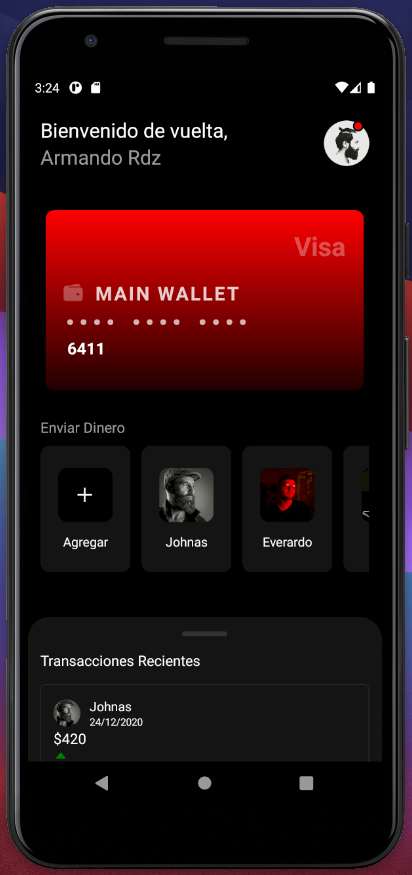
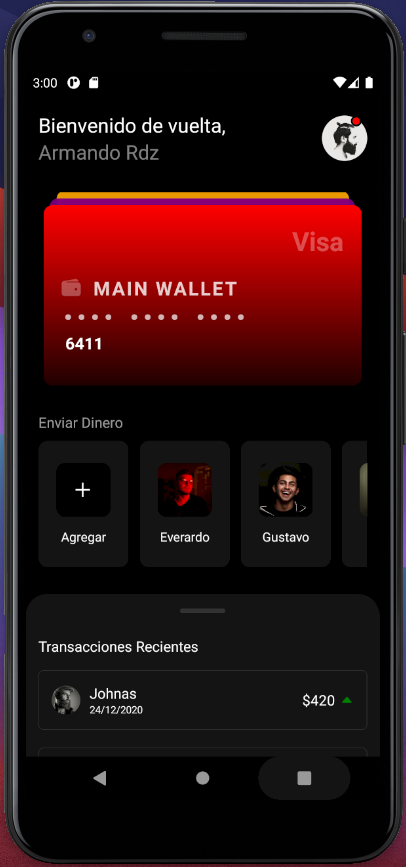
done :rocket:

diff --git a/src/components/TransactionsPanel.js b/src/components/TransactionsPanel.js
@@ -44,16 +44,17 @@ export default () => {
 
           <View style={styles.panelListContainer}>
             <FlatList
+              showsVerticalScrollIndicator={false}
               data={users}
               keyExtractor={item => item.key}
               renderItem={({ item }) => (
                 <View style={styles.panelItemContainer}>
-                  <View style={{ flexDirection: 'row', alignItems: 'center' }}>
+                  <View style={styles.userPanelInfoItem}>
                     <View style={{ marginRight: 10 }}>
                       <Image source={{ uri: item.userImage }} style={styles.panelItemImg} />
                     </View>
                     <View>
-                      <Text style={{ fontSize: 14, color: "#fff" }}>
+                      <Text style={{ fontSize: 16, color: "#fff" }}>
                         {item.userName}
                       </Text>
                       <Text style={{ fontSize: 11, color: "#fff" }}>
@@ -61,8 +62,8 @@ export default () => {
                       </Text>
                     </View>
                   </View>
-                  <View>
-                      <Text style={{ fontSize: 16, color: "#fff", flex:1}}>{item.amount}</Text>
+                  <View style={styles.amountItemContainer}>
+                      <Text style={styles.amountItem}>{item.amount}</Text>
                       {item.credit ? (
                         <Icon name="ios-caret-up" size={16} color={"green"} />
                       ): (
@@ -72,6 +73,11 @@ export default () => {
                 </View>
               )}
             />
+          </View>
+          <View style={styles.footerContainer}>
+            <TouchableOpacity style={styles.panelButton}>
+              <Text style={styles.panelButtonText}>Historial Completo</Text>
+            </TouchableOpacity>
           </View>
 
         </View>
@@ -102,22 +108,55 @@ const styles = StyleSheet.create({
     color: "#fff",
     marginVertical: 16,
     fontSize: 16,
+    paddingTop: 10,
   },
   panelListContainer: {
     height: 500,
-    paddingBottom: 10,
+    paddingBottom: 15,
   },
   panelItemContainer: {
     borderWidth: 0.6,
     borderColor: "#333333",
     padding: 14,
     borderRadius: 6,
+    flexDirection: 'row',
+    justifyContent: 'space-between',
+    alignItems: 'center',
     marginBottom: 20,
   },
   panelItemImg: {
-    width: 30,
-    height: 30,
+    width: 32,
+    height: 32,
     backgroundColor: "#000",
     borderRadius: 40,
+  },
+  userPanelInfoItem: {
+    flexDirection: 'row', 
+    alignItems: 'center',
+  },
+  amountItem: {
+    fontSize: 16, 
+    color: "#fff",
+    marginHorizontal: 5,
+  },
+  amountItemContainer: {
+    flexDirection: 'row',
+    alignItems: 'center',
+  },
+  footerContainer: {
+    flexDirection: 'row',
+    justifyContent: 'flex-end'
+  },
+  panelButton: {
+    padding: 14,
+    justifyContent: 'center',
+    backgroundColor: '#333333',
+    borderRadius: 10,
+    width: 200,
+  },
+  panelButtonText: {
+    fontSize: 16,
+    color: "#fff",
+    alignSelf: 'center',
   }
 })

diff --git a/src/data/homeData.js b/src/data/homeData.js
@@ -56,7 +56,7 @@ exports.users = [
   {
     key: '2',
     userImage: 'https://images.unsplash.com/photo-1595152772835-219674b2a8a6?ixid=MXwxMjA3fDB8MHxzZWFyY2h8NjV8fHBlcnNvbnxlbnwwfDJ8MHw%3D&ixlib=rb-1.2.1&auto=format&fit=crop&w=500&q=60',
-    userName: 'Garder',
+    userName: 'Gustavo',
     transactionDate: '30/11/2020',
     amount: '$1,000',
     credit: false
@@ -74,8 +74,24 @@ exports.users = [
     userImage: 'https://images.unsplash.com/photo-1598958978605-e8f58be35e17?ixid=MXwxMjA3fDB8MHxzZWFyY2h8MTI1fHxwZXJzb258ZW58MHwyfDB8&ixlib=rb-1.2.1&auto=format&fit=crop&w=500&q=60',
     userName: 'Arturo',
     transactionDate: '29/10/2020',
-    amount: '$500',
-    credit: false
+    amount: '$80',
+    credit: true
+  },
+  {
+    key: '6',
+    userImage: 'https://images.unsplash.com/photo-1500048993953-d23a436266cf?ixid=MXwxMjA3fDB8MHxzZWFyY2h8MTJ8fHBlcnNvbnxlbnwwfHwwfA%3D%3D&ixlib=rb-1.2.1&auto=format&fit=crop&w=500&q=60',
+    userName: 'Enrique',
+    transactionDate: '17/10/2020',
+    amount: '$120',
+    credit: true
+  },
+  {
+    key: '7',
+    userImage: 'https://images.unsplash.com/photo-1592173819500-c3ae8042ae1e?ixid=MXwxMjA3fDB8MHxzZWFyY2h8MzAxfHxwZXJzb258ZW58MHx8MHw%3D&ixlib=rb-1.2.1&auto=format&fit=crop&w=500&q=60',
+    userName: 'Fátima',
+    transactionDate: '13/10/2020',
+    amount: '$200',
+    credit: true
   },
   
 ]

diff --git a/src/screens/Home.js b/src/screens/Home.js
@@ -67,7 +67,7 @@ const styles = StyleSheet.create({
   nameTxt: {
     fontSize: 22,
     color: "#fff",
-    opacity: 0.6,
+    opacity: 0.5,
   },
   profileImgNotification: {
     height: 12,

diff --git a/src/components/CardsCarousel.js b/src/components/CardsCarousel.js
@@ -63,6 +63,7 @@ export default () => {
         contentContainerCustomStyle={{
           paddingTop: 14,
         }}
+        loop={true}
       />
     </View>
   )
